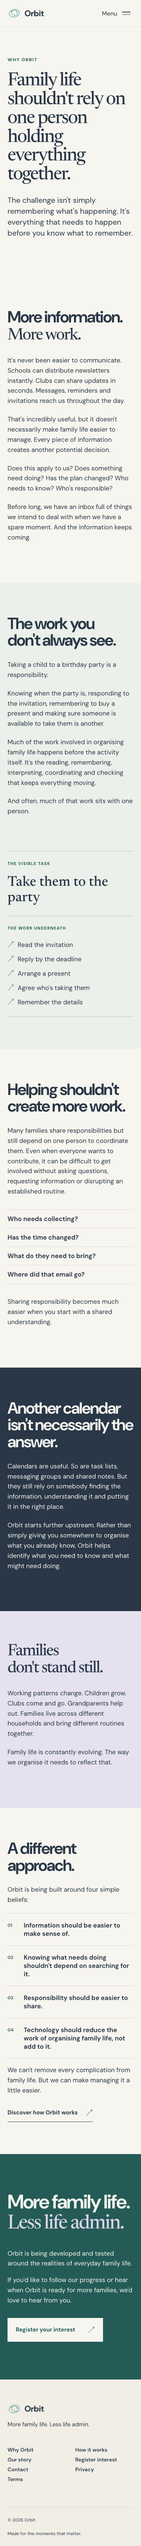
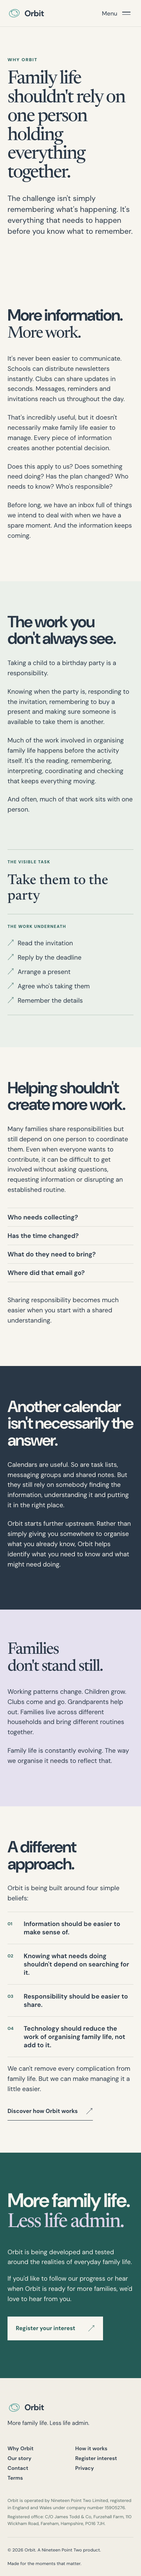
Prepare Orbit marketing site for publication review

Changed region(s): [[0.0, 0.0, 1.0, 0.6852], [0.0, 0.7163, 1.0, 0.9966]]

diff --git a/src/styles.css b/src/styles.css
@@ -73,3 +73,19 @@
 .screenshot-strip .phone-figure{max-width:340px}
 .screenshot-strip .phone-frame{width:100%}
 @media(max-width:600px){.product-image-phone{width:min(100%,330px)}.screenshot-strip .phone-figure{width:min(100%,330px)}}
+
+.legal-page{padding-block:clamp(75px,8vw,125px) clamp(100px,10vw,150px)}
+.legal-page header{max-width:920px;margin-bottom:68px}
+.legal-page h1{font-size:clamp(53px,6vw,86px);line-height:1.04;margin-bottom:24px}
+.legal-date{color:#526762;font-size:14px;font-weight:600}
+.legal-body{max-width:790px;font-size:17px;line-height:1.65;overflow-wrap:anywhere}
+.legal-body section{border-top:1px solid var(--line);padding:32px 0 34px}
+.legal-body h2{font-family:var(--font-body);font-size:clamp(26px,2.8vw,34px);line-height:1.2;margin-bottom:20px}
+.legal-body p{margin-bottom:15px}.legal-body p:last-child{margin-bottom:0}
+.legal-body ul{margin:16px 0 20px;padding-left:24px}.legal-body li{padding-left:4px;margin-bottom:8px}
+.legal-body address{font-style:normal;line-height:1.8}
+.legal-body a,.utility-page a[href^="mailto:"]{color:var(--teal);text-decoration:underline;text-decoration-thickness:1px;text-underline-offset:3px}
+.footer-statutory{margin-top:50px;color:#526762;font-size:12px;line-height:1.5;overflow-wrap:anywhere}
+.footer-statutory p{font-size:12px;margin:0 0 5px}
+.site-footer .footer-bottom{margin-top:26px}
+@media(max-width:600px){.legal-page{padding-block:72px 100px}.legal-page header{margin-bottom:44px}.legal-body{font-size:16px}.legal-body section{padding:26px 0 30px}.footer-statutory{margin-top:42px}}

diff --git a/docs/publication-readiness.md b/docs/publication-readiness.md
@@ -1,0 +1,41 @@
+# Publication readiness handover
+
+Reviewed 25 November 2026. This is a review of the marketing website implementation and public endpoints, not independent legal approval. The owner's Privacy Policy and Website Terms of Use are reproduced in the build; legalApproved remains false. No submission, email, DNS change or deployment was made.
+
+## Completed in PR #1
+
+The centrally configured Tally URL is used by navigation, footer, closing sections and other registration actions. Contact and legal pages link to hello@myfamilyorbit.uk. The unavailable registration and contact states are gone. The shared footer names Nineteen Point Two Limited, its company number and registered office. Privacy and terms have distinct URLs, unique metadata and sitemap entries. Canonical and social metadata use https://myfamilyorbit.uk; social artwork, favicon and local assets remain in the build.
+
+The local site is static. Its only JavaScript controls the mobile menu; it has no registration backend, analytics script, advertising cookie code or embedded form. The review build remains noindex, nofollow, and robots.txt still disallows all crawlers. The build fails if publicationApproved is set to true. The manual Pages workflow has no push trigger.
+
+## What was verified and what remains unverified
+
+| Area | Evidence on 25 November 2026 | Outstanding confirmation |
+|---|---|---|
+| Registration | Public Tally URL returned HTTP 200. Its rendered form contained a required email field, a required checkbox that was unchecked by default, consent text, a link to https://myfamilyorbit.uk/privacy/ and a configured completion redirect to https://myfamilyorbit.uk. | No submission was made. Confirm admin-side consent records, wording/version, export, deletion and redirect after a test submission. Its public checkbox has the generic label “Confirm” and the legend “Untitled checkboxes field”; improve its association with the consent sentence in Tally. |
+| Contact | Owner reports inbound delivery to hello@myfamilyorbit.uk has been tested. The website uses mailto links. | Confirm Google Workspace's actual receiving and retention arrangements. Outbound Gmail setup is deferred and is not a blocker for publishing the website. |
+| Privacy and terms | Owner draft is present on separate pages; operator details and links are consistent in the generated site. | Final legal/content approval, actual publication date, and confirmation that each described practice matches operational reality. The GitHub Pages hosting claim describes the intended published state; Pages is not enabled yet. |
+| Cookies and tracking | No local marketing-site analytics or storage code is present. A request to the current Cloudflare-served apex returned a security cookie named __cf_bm. | Inspect the deployed marketing domain and Tally experience in a browser, document cookies/storage and assess whether any consent is required. The existing app and redirect are not evidence for the future marketing hosting setup. |
+| Retention and rights | Owner approved annual interest-list reviews and up to 12 months for resolved general enquiries. | Put review, deletion, privacy-request and suppression procedures into operation; confirm service-provider log retention. |
+| Processors and transfers | The draft names GitHub Pages, Cloudflare, Tally and Google Workspace. | Confirm contracts/data processing terms, each data flow and applicable transfer mechanism before relying on the policy's international-transfer statement. |
+
+The [ICO privacy-notice guide](https://ico.org.uk/for-organisations/advice-for-small-organisations/privacy-notices-and-cookies/how-to-write-a-privacy-notice-and-what-goes-in-it/) identifies the details a controller should substantiate. Its guidance also covers [processor contracts](https://ico.org.uk/for-organisations/uk-gdpr-guidance-and-resources/accountability-and-governance/contracts-and-liabilities-between-controllers-and-processors-multi/), [international transfers](https://ico.org.uk/for-organisations/uk-gdpr-guidance-and-resources/international-transfers/a-brief-guide-to-international-transfers/), [cookies](https://ico.org.uk/for-organisations/direct-marketing-and-privacy-and-electronic-communications/guide-to-pecr/cookies-and-similar-technologies/), [email opt-outs](https://ico.org.uk/for-organisations/direct-marketing-and-privacy-and-electronic-communications/guidance-on-direct-marketing-using-electronic-mail/how-do-we-comply-with-the-pecr-electronic-mail-marketing-rules/) and the [data protection fee assessment](https://ico.org.uk/for-organisations/data-protection-fee/data-protection-fee-self-assessment/). These references inform the verification list; they do not establish that Orbit's arrangements have been approved.
+
+## Existing hosting and domain boundary
+
+GitHub reports has_pages: false for bjcooper23-19-2/orbit-marketing-site, and its Pages API returned 404. The repository already has a manual workflow_dispatch Pages workflow, now aligned with GitHub's configure, upload and deploy actions. It has not been run.
+
+Public DNS currently answers 185.158.133.1 for both myfamilyorbit.uk and www.myfamilyorbit.uk; these are observed public answers, not an export of the Cloudflare zone. Public MX records use Cloudflare Email Routing. Both the apex and www return HTTP 301 to https://app.myfamilyorbit.uk/. The apex /privacy/ and /terms/ paths also redirect to the corresponding app paths. The Tally privacy link therefore does not currently reach this marketing policy, and its completion redirect currently goes to the app. This is a release blocker, not a reason to alter the live routing without a plan.
+
+Inspect the actual Cloudflare zone and product link requirements before a cutover. In particular, confirm whether existing application links, account or email flows depend on apex redirects. Preserve app, admin, notify, email-routing and Resend records. Do not assume the apex can be replaced merely because the app also has a subdomain.
+
+## Exact steps for a later authorised release
+
+1. Approve the legal text and operations above; assess the ICO fee; set publicationDate to the actual publication date and legalApproved only after explicit owner approval. Review a separate release change that removes the unconditional publicationApproved guard and sets publication controls for indexing. Keep review restrictions until this point.
+2. Choose and approve an apex-routing and rollback plan after inspecting Cloudflare DNS and application dependencies. If the apex cannot move, revise the proposed hosting/canonical plan rather than repointing it silently. Export or record current DNS and redirect settings before any authorised change.
+3. After merge is explicitly authorised, enable GitHub Pages in repository Settings → Pages with GitHub Actions as the source. The current repository has no enabled Pages site. Run the manual workflow only after publication approval and verify the default Pages URL first. The workflow uploads dist/ and deploys through the protected github-pages environment.
+4. In GitHub Pages settings, add and verify myfamilyorbit.uk as the custom domain before changing DNS. With an Actions deployment, a repository CNAME file is not required. Retain any GitHub verification TXT record. [GitHub's custom-domain guide](https://docs.github.com/en/pages/configuring-a-custom-domain-for-your-github-pages-site/managing-a-custom-domain-for-your-github-pages-site) gives the current requirements.
+5. Only after the apex conflict is resolved and DNS change separately authorised, replace the conflicting apex routing with the chosen GitHub Pages records. GitHub currently documents four IPv4 A targets: 185.199.108.153, 185.199.109.153, 185.199.110.153 and 185.199.111.153; [Cloudflare's apex CNAME flattening](https://developers.cloudflare.com/dns/cname-flattening/) may instead support an approved CNAME. Do not retain a conflicting old apex record. Decide www behaviour separately and, if used, replace its current app routing with a CNAME to bjcooper23-19-2.github.io. Do not change MX, SPF, DKIM, DMARC, app or Resend records.
+6. Wait for DNS and certificate provisioning; enable HTTPS in Pages. Verify the apex, /privacy/, /terms/, www behaviour, all registration links, Tally's privacy link and return destination, contact delivery, the app and its existing email flows. Check social previews and the sitemap. Keep a tested rollback route until the cutover is accepted.
+
+[GitHub's custom workflow guide](https://docs.github.com/en/pages/getting-started-with-github-pages/using-custom-workflows-with-github-pages) describes the configured Pages actions and environment. No step above has been carried out as part of PR #1.

diff --git a/docs/publication-checklist.md b/docs/publication-checklist.md
@@ -1,15 +1,26 @@
 # Publication checklist
 
-The current build is for owner review only. It is not ready for public publication.
+PR #1 is a review build. `publicationApproved` and `legalApproved` remain `false`; every page is `noindex, nofollow`, `robots.txt` disallows crawling, and the build rejects `publicationApproved: true`. Do not run the manual Pages workflow, merge, repoint DNS or publish without separate owner approval. The [readiness handover](publication-readiness.md) records evidence and exact release steps.
 
-- [ ] Approve the four core pages and the founder photograph for public use.
-- [ ] Supply the final Tally URL, confirm its email-only fields and review its privacy wording; set `registrationUrl`.
-- [ ] Supply and verify the public contact address; set `contactEmail`.
-- [ ] Verify the current application address before adding a sign-in link.
-- [ ] Confirm the marketing site's data controller/contact, hosting and processor details, form handling, retention, user rights and any actual tracking. Write and approve distinct marketing-site Privacy and Terms pages. The present pages are explicit placeholders and `legalApproved` must remain false.
-- [ ] Decide whether GA4 is needed; if so, supply a measurement ID and implement a reviewed consent flow that loads nothing before consent. The ID currently loads no script.
-- [ ] Verify Cloudflare DNS, apex/`www` behaviour, current app hosting and email forwarding. Do not move or remove existing records while preparing the site.
-- [ ] Confirm `myfamilyorbit.uk` is the final canonical origin and check social artwork in real link previews.
-- [ ] Decide whether the available synthetic demo screenshots are suitable for public use or provide newer privacy-safe captures. They currently contain fictional names and a visible demo banner.
-- [ ] Replace the legal placeholders, then remove the hard publication guard and the review `noindex`/robots block only after all legal and operational work is complete, with an explicit owner-approved release change.
-- [ ] Authorise merge, Pages deployment and DNS changes separately. No current workflow runs on push.
+## Complete in this PR
+
+- [x] Approved creative, founder image, product screenshots and page structure preserved.
+- [x] Central Tally URL `https://tally.so/r/4aKZqO` used by registration links; public form visibly has a required email field, required consent checkbox, privacy link and configured return URL. No submission was made.
+- [x] `hello@myfamilyorbit.uk` configured for contact and legal links; owner reports inbound routing tested. Outbound Gmail setup is deferred and is not a website publication blocker.
+- [x] Owner-provided Privacy Policy and Website Terms of Use drafted into distinct pages with company details; `legalApproved` remains `false`.
+- [x] Statutory operator information added to the shared footer; privacy and terms links remain available on every page.
+- [x] Canonical, social and sitemap URLs prepared for `https://myfamilyorbit.uk`; the review build stays blocked from indexing.
+- [x] Build, site checks and local Chrome review at 375, 390, 768, 1024 and 1440 px completed; visual evidence refreshed.
+
+## Required before an authorised release
+
+- [ ] Obtain explicit owner approval of the final legal text and operational arrangements. Set `legalApproved: true` only then; set `publicationDate` to the actual publication date at release. The draft currently shows `[actual publication date]`.
+- [ ] Verify processor contracts and relevant international transfer safeguards for GitHub, Cloudflare, Tally and Google Workspace; record the actual data flows and lawful arrangements.
+- [ ] Inspect Tally admin settings and a test submission for timestamped consent evidence, consent wording/version, data export/deletion and redirect behaviour. Review the public consent control's generic `Confirm` label and `Untitled checkboxes field` legend.
+- [ ] Confirm the live cookie and storage behaviour of the deployed marketing site and Tally form. The local site has no analytics or advertising scripts; the current Cloudflare-served apex sets a security cookie. Assess whether any optional technology needs consent.
+- [ ] Establish an annual interest-list review, 12-month resolved-enquiry deletion process, a privacy-request handling process and a suppression/unsubscribe process before sending updates.
+- [ ] Complete the [ICO data protection fee self-assessment](https://ico.org.uk/for-organisations/data-protection-fee/data-protection-fee-self-assessment/) and record the outcome.
+- [ ] Resolve the domain routing conflict: the apex, `www`, `/privacy/` and `/terms/` currently redirect to `app.myfamilyorbit.uk`. Confirm the impact on application links and choose the marketing-site cutover and rollback plan before touching Cloudflare DNS.
+- [ ] Enable GitHub Pages with GitHub Actions as its source, verify the domain, deploy only after release approval, and then configure the custom domain and HTTPS. Preserve existing email, Resend and application DNS records.
+- [ ] Verify the live privacy link from Tally, Tally's return destination, all marketing routes, `www` behaviour, email routing, app access and social previews after the authorised cutover.
+- [ ] Complete a separate owner-approved release change that removes the unconditional publication guard and review indexing block only after these checks. Authorise merge, deployment and DNS changes separately.

diff --git a/docs/review/README.md b/docs/review/README.md
@@ -1,6 +1,6 @@
 # Visual review evidence
 
-Captured from the local static build in headless Chrome on 24 November 2026. Full-page images include the navigation, page body and footer. Product screenshots use only the product repository's synthetic demo data. The review build was not published.
+Captured from the local static build in headless Chrome on 25 November 2026. Full-page images include the navigation, page body and footer. Product screenshots use only the product repository's synthetic demo data. The review build was not published.
 
 | Page | Mobile, 375 px | Desktop, 1440 px |
 |---|---|---|
@@ -8,9 +8,13 @@ Captured from the local static build in headless Chrome on 24 November 2026. Ful
 | Why Orbit | [View](why-orbit-375.png) | [View](why-orbit-1440.png) |
 | How it works | [View](how-it-works-375.png) | [View](how-it-works-1440.png) |
 | Our story | [View](our-story-375.png) | [View](our-story-1440.png) |
+| Register interest | [View](register-interest-375.png) | [View](register-interest-1440.png) |
+| Contact | [View](contact-375.png) | [View](contact-1440.png) |
+| Privacy Policy | [View](privacy-375.png) | [View](privacy-1440.png) |
+| Website Terms | [View](terms-375.png) | [View](terms-1440.png) |
 
 Focused refinement captures: [hero desktop](home-hero-1440.png), [hero mobile](home-hero-375.png), [founder desktop](home-founder-1440.png), and [founder mobile](home-founder-375.png). The homepage hero moves from forty layered source formats on the left into clear copy on the right, with two smaller fragments lingering at the edge. Mobile places twenty-six fragments above the headline and lets them fade as the proposition resolves. Ben looks into the copy from the right on desktop.
 
 Product presentation captures: [Home desktop](home-product-1440.png), [Home mobile](home-product-375.png), [How it works process desktop](how-process-1440.png), [How it works process mobile](how-process-375.png), [screen pairing desktop](how-screens-1440.png), and [screen pairing mobile](how-screens-375.png). Selected genuine demo screens use a subtle CSS phone frame; the review screen remains unframed.
 
-Additional measured layouts: 390, 768 and 1024 px. No horizontal overflow or broken images at any reviewed width. Mobile menu open/close and Escape dismissal passed. Local links and assets passed `npm run check` (256 checks). See `docs/publication-checklist.md` for remaining blockers.
+Additional measured layouts: 390, 768 and 1024 px. No horizontal overflow or broken images on the eight routes at any reviewed width. The mobile menu opened and closed with Escape. All registration links use the configured Tally URL; footer legal links and statutory information are present on every page. Local links and assets passed `npm run check` (324 checks). The review build still blocks indexing and publication. See the [publication checklist](../publication-checklist.md) and [readiness handover](../publication-readiness.md) for remaining blockers.

diff --git a/docs/build-brief.md b/docs/build-brief.md
@@ -1,8 +1,8 @@
 # Build brief and implementation record
 
-Risk class: **Standard**. The goal is a credible public home that lets Ben explain Orbit with one link. The smallest complete implementation is a static multipage site with shared navigation/footer, eight routes, approved assets, SEO foundations and inactive integrations. There is no commercial launch funnel, account system, CMS or backend.
+Risk class: **Standard**. The goal is a credible public home that lets Ben explain Orbit with one link. The implementation is a static multipage site with shared navigation/footer, eight routes, approved assets and SEO foundations. Registration links now lead to the owner-provided Tally form and contact links use the confirmed public address. There is no account system, CMS or backend in this site.
 
-The site is generated by `scripts/build.mjs` from `src/site.mjs` and `src/styles.css`. Relative asset and route links support GitHub Pages under `/orbit-marketing-site/` as well as the future domain. Metadata uses the proposed `myfamilyorbit.uk` canonical origin. The review build is `noindex` and disallows crawling. `site.config.json` holds future destinations. The manual-only Pages workflow must not be run until publication is approved.
+The site is generated by `scripts/build.mjs` from `src/site.mjs`, `src/legal.mjs` and `src/styles.css`. Relative asset and route links support GitHub Pages under `/orbit-marketing-site/` as well as the future domain. Metadata uses the confirmed `myfamilyorbit.uk` canonical origin. The review build is `noindex` and disallows crawling. The manual-only Pages workflow must not be run until publication is approved. The current apex redirects to the app; the [readiness handover](publication-readiness.md) records the cutover dependency.
 
 Product reference: `bjcooper23-19-2/my-family-orbit@546c34e5ae3e3ffe7c95482b612333cda0a87b3e`. Source files inspected include README, AGENTS, product brief, product loop, validation roadmap, terminology/state model, information architecture, implemented CSS, Tailwind config, logo component, favicon and brand memory. Existing tracked synthetic demo screenshots supplied the product imagery. No product files were modified.
 

diff --git a/README.md b/README.md
@@ -18,9 +18,9 @@ The static output uses relative links, so it works at both a GitHub Pages reposi
 
 ## Configuration and publication
 
-Edit [`site.config.json`](site.config.json) for the eventual Tally registration URL, contact email, verified sign-in URL, and canonical origin. Empty values deliberately produce an unavailable state or hide the link. Do not insert a real form until its privacy arrangements are approved. GA4 remains inactive; its future measurement ID is reserved in the config and a consent implementation must be reviewed before enabling it.
+[`site.config.json`](site.config.json) holds the confirmed Tally registration URL, public contact email and canonical origin. Registration actions open the external Tally form; no form, database or mail service is embedded in this site. The optional sign-in URL is still empty and its link stays hidden. GA4 remains inactive; its future measurement ID loads no script and requires a reviewed consent implementation before use.
 
-The build intentionally refuses `publicationApproved: true` while the legal pages are placeholders. Replacing those pages and removing the guard requires a separate owner-approved release change. The Pages workflow is manual (`workflow_dispatch`) and is provided for a later authorised release. Do not trigger it during review. The workflow has no push trigger. The repository must not be merged or published until the owner authorises release and the blockers in [`docs/publication-checklist.md`](docs/publication-checklist.md) are resolved.
+The Privacy Policy and Website Terms of Use are owner-provided drafts. Their actual publication date is pending, `legalApproved` remains false, and the build still refuses `publicationApproved: true`. A separate owner-approved release change is required to complete the legal and operational checks, set the publication date, and remove the guard and review indexing restrictions. The Pages workflow is manual (`workflow_dispatch`) with no push trigger. Do not run it, merge, change DNS or publish during review. See the [publication checklist](docs/publication-checklist.md) and [readiness handover](docs/publication-readiness.md).
 
 ## Sources
 
